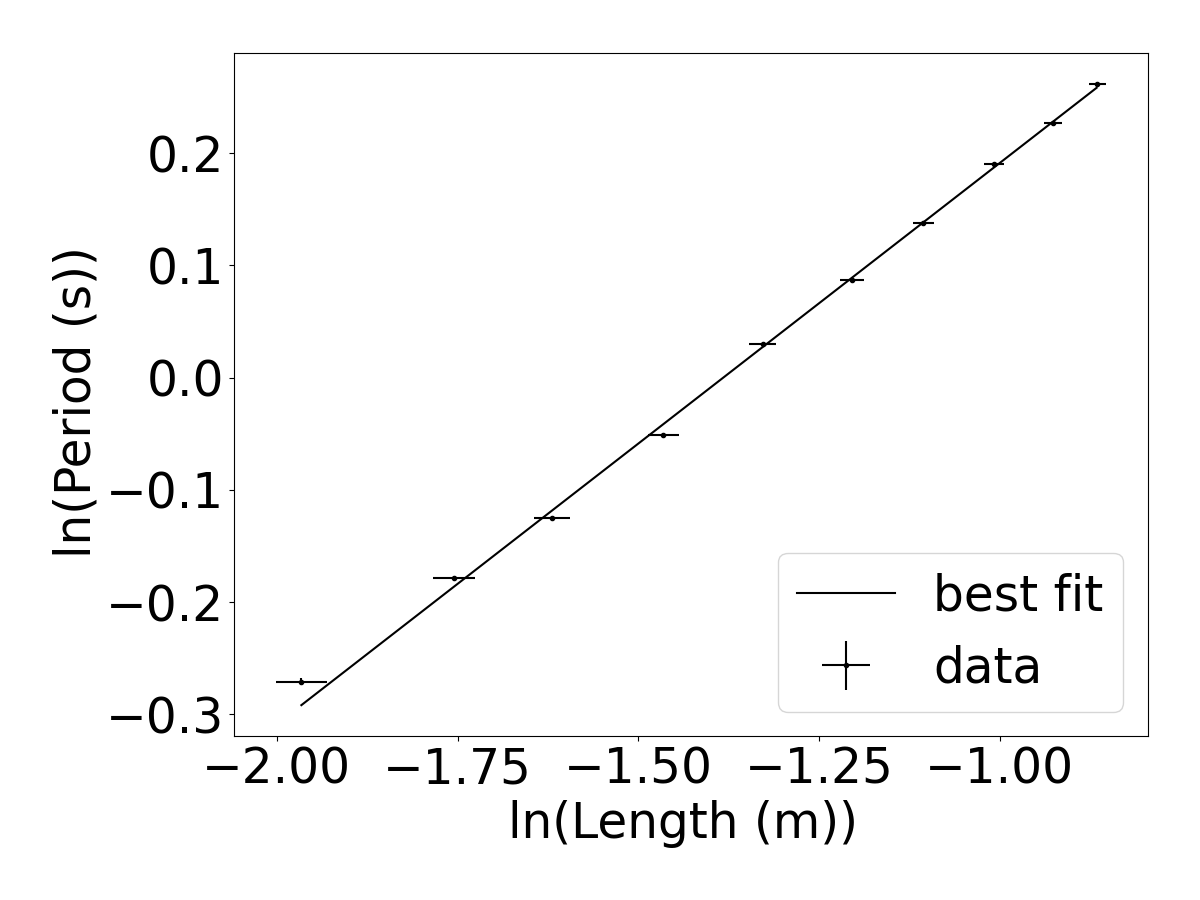
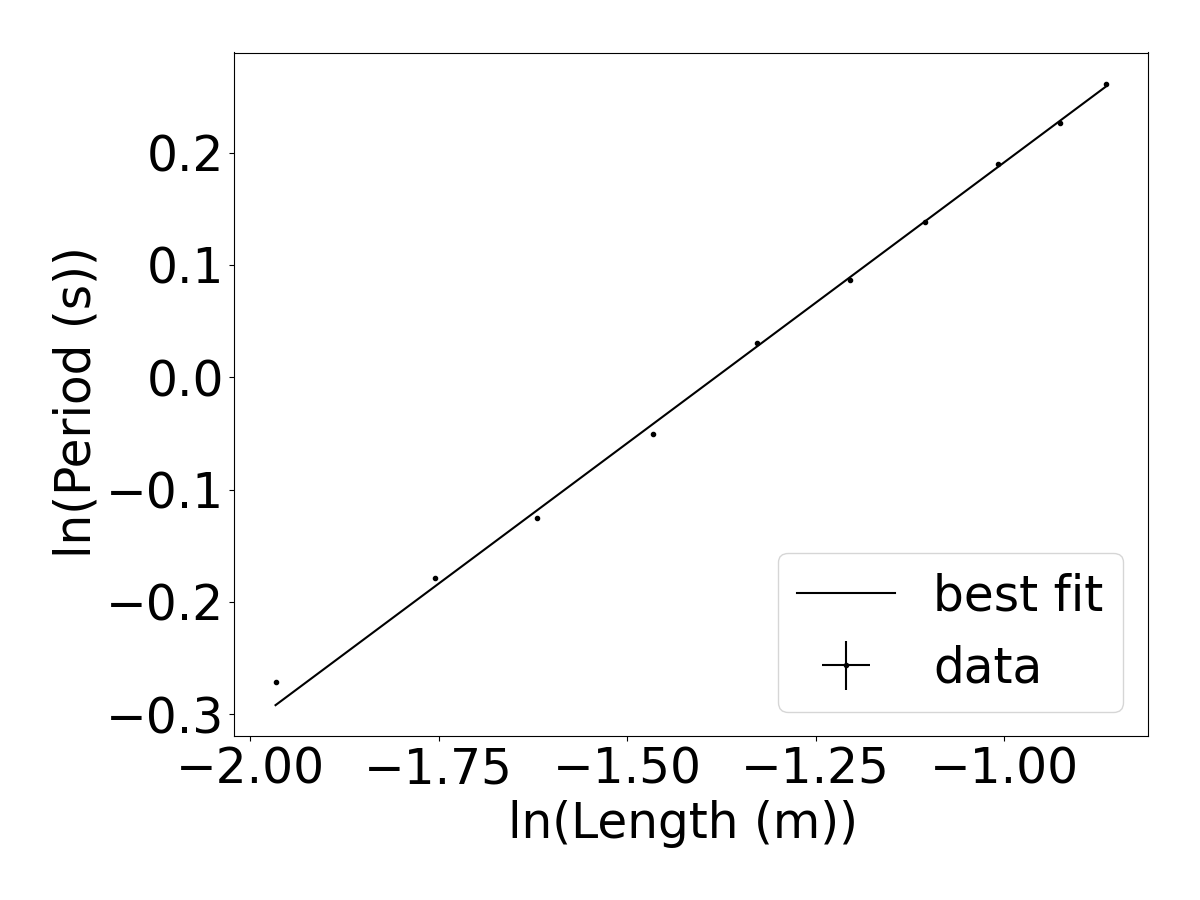
IT IS FINISHED

diff --git a/report.tex b/report.tex
@@ -46,26 +46,39 @@
 \vspace{-5ex}
 
 \section{Introduction}
-The objective of this project was to determine the acccuracy of predictions by the \textbf{damped harmonic oscillator} model of a pendulum (Wilson, 2025a). The experiments examined how a pendulum's initial amplitude $\theta_0$ affects its period $T$ and measured the $Q$ factor, which represents how slowly the amplitude $\theta$ decays per $T$. Analysis of the collected data and its uncertainties yielded several results. The pendulum was confirmed to be symmetric ($T$ for $\theta > 0$ and $\theta < 0$ are equal). $T$ increases quadratically with $\theta_0$, but after considering uncertainty, it is experimentally consistent with a constant small-angle period $T_0$ when $\abs{\theta_0}\leq0.25 \pm 3$. Using a starting amplitude within the small-angle range, $Q$ was calculated from the experimentally determined exponential decay constant $\tau$ and period $T$. The amplitude $\theta$ fits the decaying exponential closely. Considering error, the calculated $Q$ agreed with the $Q$ found by counting the number of $T$ for $\theta$ to decay by a carefully selected factor. 
+The objective of this project was to determine the accuracy of predictions by the \textbf{damped harmonic oscillator} model of a pendulum (Wilson, 2025a) and which variables depend on each other through various experiments.
 
-Once the pendulum was built, most data collection used the Open Source Physics (OSP) Tracker (Brown, 2025) to search the recorded footage. The data, reformatted through Google Sheets, was run through Python script customized from the one provided (Wilson, 2025b) to generate best fit data and graphs.
-
+\subsection{Background}
 The following equations may be referenced throughout the report:
 \begin{align}
     \theta(t)&=\theta_0 ~ \e^{-t/\tau} \cos{\left(\frac{2\pi}{T}t+\phi_0 \right)} 
         \label{amplitude vs. time}\\
-    \theta_{max}(t)&=\theta_0 ~ \e^{-t/\tau} \label{max amplitude vs. time}\\
+    \theta_{\text{max}}(t)&=\theta_0 ~ \e^{-t/\tau} \label{max amplitude vs. time}\\
     T(\theta_0) &= T_0(1 + B\theta_0 + C\theta_0^2) \label{power series}\\
     Q&=\pi\frac{\tau}{T} \label{q calculated}\\ 
-    Q&=nK \label{q counted}
+    Q&=nK \label{q counted}\\
+    T&=kL^n \label{period vs length power law}
 \end{align}
+The damped harmonic oscillator model suggests that Equation~\ref{amplitude vs. time} (Wilson, 2025a) can describe the position of an oscillating pendulum released at rest from an initial amplitude $\theta_0$ as a function of time, where Equation \ref{max amplitude vs. time} describes the maximum amplitude per oscillation. The model predicts that $T$ does not depend on $\theta_0$ at all, that the best fit 3-term power series Equation \ref{power series} (Wilson) would yield $B,~ C=0$ and $T=T_0$. 
+Equation \ref{q calculated} (Wilson) quantifies $Q$ in terms of the decay constant $\tau$ and $T$. By Equation~\ref{q counted}, $Q$ can also be found by counting $K$, the number of oscillations for $\theta$ to decay by a factor of $\e^{-\pi/n}$ for any $n$.
+The best-fit power law Equation \ref{period vs length power law} (Wilson) is predicted to yield $k=2$, $n=0.5$, i.e. $T=2\sqrt{L}$ (Wilson) with modified units.
 
-The damped harmonic oscillator model suggested that $\theta$ could be described by the function of time Equation~\ref{amplitude vs. time} (Wilson, 2025a) where Equation \ref{max amplitude vs. time} describes the maximum amplitude per oscillation. The model also predicted that $T$ did not depend on $\theta_0$ at all, that the best fit 3-term power series Equation \ref{power series} (Wilson, 2025a) would yield $B,~ C=0$ and $T=T_0$. 
-Equation \ref{q calculated} (Wilson, 2025a) quantifies $Q$ in terms of other obtainable variables. By Equation~\ref{q counted}, $Q$ can also be found by counting $K$, the number of oscillations for $\theta$ to decay by a factor of $\e^{-\pi/n}$ for any $n$.
+When analyzing uncertainties, two values $a \pm u(a),~b \pm u(b)$ (where $a<b$) are considered experimentally indistinguishable if their error bars overlap ($a + u(a) \geq b - u(b))$. In the special case where $u(a)=u(b)$, $a$ and $b$ agree within error if $\abs{b-a}\leq 2u(a).$
 
-When analyzing uncertainties, two values $a \pm u(a),~b \pm u(b)$ (where $a<b$) are in fact considered experimentally indistinguishable if their error bars overlap ($a + u(a) \geq b - u(b))$. In the special case where $u(a)=u(b)$, $a$ and $b$ agree within error if $\abs{b-a}\leq 2u(a).$
+\subsection{Experimental Objectives and Findings}
+The experiments in this report:
+\begin{itemize}
+    \item Examined how a pendulum's initial amplitude $\theta_0$ affects its period $T$,
+    \item Measured the $Q$ factor, which represents how slowly the amplitude $\theta$ decays per $T$,
+    \item Examined how a pendulum's length affects its period $T$, and
+    \item Examined how a pendulum's length affects its $Q$ factor.
+\end{itemize}
+Analysis of the collected data and its uncertainties yielded several results. The pendulum was confirmed to be symmetric ($T(\theta_0)=T(-\theta_0)$). $T$ increases quadratically with $\theta_0$, but after considering uncertainty, it is experimentally consistent with a constant small-angle period $T_0=1.528 \pm \SI{0.002}{s}$ when $\abs{\theta_0}\leq0.25 \pm 3$. Subsequent experiments used starting amplitudes within the small-angle range. $Q_{\text{fit}}$ was calculated from the experimentally determined exponential decay constant $\tau$ and period $T$. The decaying exponential fits $\theta_{\text{max}}$ well but initially underestimates, then overestimates its true value. Considering error, the calculated $Q_{\text{fit}}=149\pm 2$ agreed with the $Q_2=154 \pm 10$ and $Q_3=165 \pm 9$ found by counting the number of $T$ for $\theta$ to decay by a factors of $\e^{-\pi/2}$ and $\e^{-\pi/3}$ respectively. It was also determined that $T$ depends very strongly on $L$, that $T=2\sqrt{L}\cdot \si{s/m^{0.5}}$, agreeing with the predicted model with some modification to units. $Q$ was also determined to have a dependence on $L$, with $Q=kL^n$, $k=380\pm20$, $n=0.76 \pm 0.03$.
 
-\pagebreak
+\subsection{Overview of Software Use}
+Once the pendulum was built, most data collection used the Open Source Physics (OSP) Tracker (Brown, 2025) to search the recorded footage. The data, formatted as .csv files, was passed into Python scripts customized from the one provided (Wilson, 2025b) that parsed data, performed calculations, and generated best fit data and graphs. See \href{https://github.com/planT-444/phy180-pendulum}{GitHub repository}.
+
+
 \section{Methods and Procedures}
 {\color{darkGreen}
 The string was tied around a screw, which was inserted into the mass (a tennis ball). The polypropylene string had negligible strain caused by the weight of the mass. Two stacks of books stabilized two boards which jutted off the table and clamped the string, fixing the pivot. A tripod supported the camera (a phone) from a distance, capturing slow-motion footage.
@@ -106,20 +119,21 @@ The period was measured using frame-by-frame analysis of the footage in OSP Trac
 
 \subsection{Measuring Q Factor}
 {\color{darkGreen}
-Footage was collected starting at $\theta_{max} \approx 0.25$ (within the small-angle approximation). As the pendulum could drift off plane with many oscillations, the mass was now hung from two strings of equal length to prevent motion normal to the desired plane (see Figure~\ref{fig:setup2}). The lens of the phone camera was normal to said plane and level with the pivot to reduce parallax error, since max amplitude was now measured from the footage using OSP Tracker's built-in protractor (see Figure~\ref{fig:tracker}). Not every oscillation was manually tracked. It would be unnecessary, since $\theta_{max}$ does not change meaningfully after small amounts of oscillations (it was later discovered that decay constant $\tau \gg T$). $T_0$ and $T_{final}$ were also tracked for $Q$ calculations.} 
+Footage was collected starting at $\theta_{\text{max}} \approx 0.25$ (small angle). The mass was now hung from two strings of equal length to prevent drift normal to the desired plane of motion over many oscillations (see Figure~\ref{fig:setup2}). The lens of the phone camera was normal to said plane and level with the pivot to reduce parallax error, since max amplitude was now measured from the footage using OSP Tracker's built-in protractor (see Figure~\ref{fig:tracker}). $T_0$ and $T_{final}$ were also tracked for $Q$ calculations.} 
 {\color{darkPurple} The length $L=29.1 \pm 0.5\,\text{cm}$ was used.}
 
 % TODO: rewrite
 {\color{darkPurple}
-$Q=nK$ (Equation~\ref{q counted}), so $u(Q)=nu(K)$. Selecting $n$ can be difficult because smaller $n$ can decrease $u(Q)$ but also result in a wider range of acceptable $K$ values (oscillations for which $\theta_{max}$ and $\theta_{final}$ agree within error), increasing $u(K)$. Data from both $n=2$ and $n=3$ were collected.
+When counting the number of oscillations $K$ for $\theta_{\text{max}}$ to decay to $\theta_{\text{final}}=\e^{-\pi/n}$, $u(\theta)$ causes $\theta_{\text{max}}$ at multiple oscillations to agree with $\theta_{\text{final}}$ within error, causing $u(K)$. $Q=nK$ (Equation~\ref{q counted}), so $u(Q)=nu(K)$. 
+Selecting $n$ is a tradeoff because smaller $n$ can decrease $u(Q)$ but also decreases $\theta_{\text{final}}$, increasing $u(K)$. Data from both $n=2$ and $n=3$ were collected.
 }
 
 \subsection{Measuring Period vs. Pendulum Length}
 The camera setup was improved as described in Figure \ref{fig:white}. 
 $L_{\text{pendulum}} = y_{\text{pivot}} - y_{\text{ball centre}} 
 = y_{\text{pivot}} - y_{\text{ball bottom}}- r_{\text{ball}}$. 
-Measuring the length of the string would not be helpful as the two-string pendulum was still in use, so a metre stick (Figure \ref{fig:metre stick setup}) was used to measure $y_{\text{pivot}}$ and $y_{\text{ball bottom}}$ after changes of length. The tape was necessary, as changing viewing angle to confirm proper alignment while the stick often shifted its position. 
-$y_{\text{ball bottom}}$ was measured  with eye level held as closely to the metre stick and as horizontal as achievable to reduce parallex error as shown in Figure \ref{fig:ball bottom}.
+A metre stick (Figure \ref{fig:metre stick setup}) was used to measure $y_{\text{pivot}}$ and $y_{\text{ball bottom}}$ after changes of length. The tape was necessary, as changing viewing angle to confirm proper alignment while holding the stick often shifted its position. 
+$y_{\text{ball bottom}}$ was measured with eye level held as closely to the metre stick and as horizontal as achievable to reduce parallax error as shown in Figure \ref{fig:ball bottom}.
 
 The pendulum was dropped from slightly higher than the small angle $\theta_0<0.25$ so it would stabilize after any potential human error (e.g. non-zero force) by the time it reached $\theta_0$.
 $T$ was measured (in OSP Tracker) by dividing the time for 10 oscillations by 10. With the small angle approximation, the change in period is negligible, so averaging 10 oscillations reduces type B uncertainty per oscillation. 
@@ -150,10 +164,12 @@ $T$ was measured (in OSP Tracker) by dividing the time for 10 oscillations by 10
 \vspace{-0.5cm}
 
 \subsection{Measuring Q Factor vs. Length}
-The same footage (multiple minutes per video) for varying length was analyzed in OSP Tracker. Max amplitudes were manually tracked. To find the decay constants and their uncertainties $\tau,\,u(\tau)$, $\theta_{\text{max}}$ vs. $t$ data for each length was fitted to Equation \ref{max amplitude vs. time} with a \href{https://github.com/planT-444/phy180-pendulum/blob/master/yippee2.py}{Python script}, which also fitted the calculated $Q$ vs. $L$ data to various curves (see Appendix \ref{trying curves}).
+$Q$ was founding using both $\tau$ and counting, but counting yielded extremely uncertain fit values because of high $u(K)\propto u(Q)$.
+The same footage (multiple minutes per video) for varying lengths was analyzed in OSP Tracker. Max amplitudes were manually tracked. To find the $\tau$ and $u(\tau)$, $\theta_{\text{max}}$ vs. $t$ data for each length was fitted to Equation \ref{max amplitude vs. time} with a \href{https://github.com/planT-444/phy180-pendulum/blob/master/yippee2.py}{Python script}, which also fitted the calculated $Q$ vs. $L$ data to various curves (see Appendix \ref{trying curves}).
 
 
 \section{Results and Data Analysis}
+\vspace{-0.4cm}
 \begin{figure}[H]
     \centering
     \includegraphics[height=0.22\textheight]{output-files/period vs amplitude.png}
@@ -162,8 +178,8 @@ The same footage (multiple minutes per video) for varying length was analyzed in
         Graph of $T$ vs. $\theta_0$ at release fitted to Equation~\ref{power series}, the 3-term power series 
         \mbox{$T(\theta_0) = T_0(1 + B\theta_0 + C\theta_0^2)$} (Equation \ref{power series}), 
         yielding $T_0=1.528 \pm \SI{0.002}{s},\:B=-0.0006 \pm \SI{0.0005}{s},\:C=0.0563 \pm \SI{0.0006}{s}.$
-        $T(0)=T_0$, visually located at the vertex.
         $\theta_0$ error bars are too small to be visible.
+        $T(0)=T_0$, visually located at the vertex.
         The large outlier at $\theta_0=0.873$ was a result of a misdrop but was not artificially discluded.
         Not all $T$ error bars hit the best fit curve, which is expected.
         }
@@ -175,7 +191,7 @@ The same footage (multiple minutes per video) for varying length was analyzed in
 The type B uncertainty in initial amplitude $u(\theta_0)=\SI{0.5}{\degree}=\SI{0.009}{rad}$ comes from the precision of the protractor's markings and the thickness of the string (non-negligible for a small protractor). 
 }
 {\color{darkPurple}
-The error in period $u(T)=\max(u_A(T), u_B(T))$ considers both uncertainties, type A (standard error of the mean of at least 3 repeated trials $\frac{\sigma_T}{\sqrt{N}}$, ranged from 0.001 to 0.007 excluding the misdrop outlier)} 
+The error in period $u(T)=\max(u_A(T), u_B(T))$ considers both uncertainties, type A (standard error of the mean of at least 3 trials $\frac{\sigma_T}{\sqrt{N}}$, ranged from 0.001 to $\SI{0.007}{s}$ excluding the misdrop outlier)} 
 {\color{darkGreen}
 and type B (footage limitation $1/\SI{120}{FPS}/\SI{3}{oscillations}=\SI{0.003}{s}$).
 
@@ -203,11 +219,13 @@ Therefore, the small angle approximation is valid for $\abs{\theta_0}\leq 0.25 \
     \centering
     \includegraphics[height=0.22\textheight]{output-files/amplitude vs. time.png}
     \caption{
-        {\color{darkPurple}
+        {\color{darkGreen}
         Graph of the decaying $\theta_{\text{max}}$ vs. time fitted to the exponential
         $\theta_{\text{max}}(t) = \theta_0 \e ^ {t/\tau}$ (Equation \ref{max amplitude vs. time}), yielding $\theta_0= 0.271 \pm 0.002,\:\tau= 51.3 \pm \SI{0.5}{s}$. 
-        $\abs{\Delta\theta_{max}}$ per oscillation decreases, which complicates identifying $K$ when many $\theta_{\text{max}}$ agree with $\theta_{\text{final}}$ within error. 
         $t$ error bars are too small to be visible.
+        $\abs{\Delta\theta_{\text{max}}}$ per oscillation decreases, which complicates identifying $K$ when many $\theta_{\text{max}}$ agree with $\theta_{\text{final}}$ within error. 
+        }
+        {\color{darkPurple}
         Fitting with Equation \ref{max amplitude vs. time} results in residuals that mostly overlap the curve within error. The decay can reasonably be modelled with Equation \ref{max amplitude vs. time}, but it appears to initially underestimate and eventually overestimate the true $\theta_{\text{max}}$.
         }
     }
@@ -215,7 +233,7 @@ Therefore, the small angle approximation is valid for $\abs{\theta_0}\leq 0.25 \
 \end{figure}
 \vspace{-0.5cm}
 {\color{darkGreen}
-The type B uncertainties are $u(\theta_{max})= \SI{0.2}{\degree} = \SI{0.003}{\radian}$ (smaller than before, since OSP Tracker's protractor radius can be enlarged so that the string thickness spans less ticks) and $u(t)= \SI{0.008}{s}$ ($1/\SI{120}{FPS})$.
+The type B uncertainties are $u(\theta_{\text{max}})= \SI{0.2}{\degree} = \SI{0.003}{\radian}$ (smaller than before, since OSP Tracker's protractor radius can be enlarged so that the string thickness spans less ticks) and $u(t)= \SI{0.008}{s}$ ($1/\SI{120}{FPS})$.
 
 $T = 1.083 \pm \SI{0.008}{s}$. $T$ is considered the average of $T_0,~T_{final}$ with an 
 uncertainty half their distance. Using best fit values and also counting $K$, the 
@@ -236,7 +254,7 @@ $Q_2$ experimentally agrees fully with $Q_{fit}$ ($\,\abs{Q_{fit}-Q_2} \leq u(Q_
         \includegraphics[width=1\textwidth]{output-files/period vs length.png}
         \caption{
             Graph of $T$ vs. $L$ fitted to $T=kL^n$, yielding $k=1.997\pm \SI{0.003}{s/m^{0.5}}$, 
-            $n=0.500 \pm 0.001$. 
+            $n=0.500 \pm 0.001$. No error bars overlap the curve (more trials needed for precise $u_A(T)$).
         }
         \label{fig:period vs length}
     \end{minipage}
@@ -246,33 +264,96 @@ $Q_2$ experimentally agrees fully with $Q_{fit}$ ($\,\abs{Q_{fit}-Q_2} \leq u(Q_
         \includegraphics[width=1\textwidth]{output-files/period vs length logged.png}
         \caption{
             Graph of $\ln T$ vs. $\ln L$ fitted to the line $\ln T = \ln k + n\ln L$, 
-            yielding $k=1.997\pm \SI{0.003}{s/m^{0.5}}$, 
-            $n=0.500 \pm 0.001$. As expected, the fit values are the same. 
+            yielding the same fit values, as expected.
         }
         \label{fig:period vs length logged}
     \end{minipage}
+\end{figure}
+
+As in the $T$ vs. $\theta_0$ analysis, $u(T)=\max(u_A(T), u_B(T))$ where $u_A(T)=$ standard error of the mean of 3 trials, ranging from $0.0006$ to $0.002\,$s, and $u_B(T)=1/\SI{120}{FPS}/\SI{10}{oscillations}=\SI{0.0008}{s}$. A combination of the metre stick's slight curve, its slight misalignment from the vertical, and parallax error cause at best $u(L)=\SI{0.005}{m}$.
+
+As predicted, the exponent $n$ agrees with 0.5 within error. The coefficient $k$ agrees with the predicted 2.000 within error, but the units should be in $\si{s/m^{0.5}}$. Therefore, the data agrees with the model, but its units must be changed: $T=2\sqrt{L}\cdot\si{s/m^{0.5}}$ if $[T]=\si{s}$ and $[L]=\si{m}$.
+
+\begin{figure}[H]
+    \centering
+        \includegraphics[height=0.22\textheight]{output-files/Q vs. length power law.png}
+        \caption{
+            Graph of $Q$ vs. $L$ fitted to the equation $Q=kL^n$, yielding 
+            $k=380\pm\SI{20}{m^{-0.76}}$, $n=0.76 \pm 0.03$.
+            Most error bars overlap with the curve.
+        }
+        \label{fig:Q vs length}
+\end{figure}
+\vspace{-0.5cm}
+The fit values are both an order of magnitude greater than their uncertainties and do not agree with 0 within error. The residuals show that most error bars overlap the curve. Therefore, Q has a dependence on L that strongly resembles the power law function mentioned in Figure \ref{fig:Q vs length}.
+
+\section{Conclusion}
+{\color{darkGreen}
+By analyzing experimental uncertainty, it is concluded that the period $T$ can be approximated as the small-angle period $T_0=1.528 \pm \SI{0.002}{s}$ for $\abs{\theta_0}\leq 0.25\pm0.03$ but grows quadratically for $\abs{\theta_0} > 0.25 \pm 0.03$. Note that $\abs{\theta_0}$ is used as that the pendulum was confirmed to be symmetric ($B=0$). The pendulum's $\theta_{\text{max}}$ per oscillation can be modelled with exponential decay $\theta_{\text{max}}(t)=\theta_0\e ^ {\tau/t}$, }
+{\color{darkPurple}
+though the model initially underestimates, then overestimates the true $\theta_{\text{max}}$.}
+{\color{darkGreen}
+$Q_{fit}=149\pm2$ calculated from $\tau$ and $T$ agrees with the $Q_2=150\pm10$ and $Q_3=165\pm9$ obtained by counting $K$ for $n=2$, $n=3$. }
+The fitted $T$ vs. $L$ data agrees with the proposed $T=2\sqrt{L}$ model but needs to be multiplied by appropriate units $\si{m/s^{0.5}}$. After trying multiple curves, $Q$ was found to depend on $L$, with $Q=kL^n$ and $k=380\pm \SI{20}{m^{-0.76}}$, $n=0.76 \pm 0.03$.
+
+If the lab were to be redone, more data would be taken for the misdrop outlier datapoint in $T$ vs. $\theta_0$ and more trials would be taken for $T$ vs. $L$ as well (for more precise $u_A(T)$). 
+
+\pagebreak
+
+\appendix
+\section{Trying to fit various curves to the Q vs. L data} \label{trying curves}
+The data was fitted to all the following curves:
+\begin{itemize}
+    \item $Q=AL^2 + BL + C$
+    \item $Q=mL+b$
+    \item $Q=kL^n$
+    \item $Q=A\sqrt{L}+B$
+    \item $Q=A\ln{L} + B$ 
+\end{itemize}
+The last 3 curves had $R^2=$ 0.96 to 0.97 and low $S=\frac{u({\text{fit value}})}{\text{fit value}}$ ratios (relative uncertainty). Of the three, the power series makes the most sense, since it has a positive $Q$ range while the other two predict some negative $Q$ values at positive $L$, which is impossible. This is deemed more important than the logarithmic curve's slightly lower $S$.
+\begin{figure}[H]
+    \centering
+        \includegraphics[height=0.22\textheight]{output-files/Q vs. length quadratic.png}
+        \caption{
+            Data fitted to $Q=AL^2 + BL + C$. $A=-700 \pm 200$, $B=800 \pm 100$, 
+            $C=-10 \pm 10$. $R^2=0.98$.
+        }
+\end{figure}
+
+\begin{figure}[H]
+    \centering
+        \includegraphics[height=0.22\textheight]{output-files/Q vs. length linear.png}
+        \caption{
+            Data fitted to $Q=mL+b$. $m=400 \pm 20$, $b=30 \pm 4$. $R^2=0.94$.
+        }
+\end{figure}
+
+\begin{figure}[H]
+    \centering
+        \includegraphics[height=0.22\textheight]{output-files/Q vs. length power law.png}
+        \caption{
+            Data fitted to $Q=kL^n$. $k=380\pm20,~ n=0.76 \pm 0.03$. $R^2=0.96$
+            }
 \end{figure}
 
 \begin{figure}[H]
     \centering
         \includegraphics[height=0.22\textheight]{output-files/Q vs. length sqrt.png}
         \caption{
-            Graph of $Q$ vs. $L$ fitted to the equation $Q=A \sqrt{L} + B$, yielding $A=400 \pm \SI{20}{m^{-0.5}}$, $B=-67 \pm 7$. For $L< \SI{3}{cm},\:Q<0$, which is impossible. However, $r_{\text{ball}}\approx \SI{3}{cm}$, so $L<\SI{3}{cm}$ represents cases with no string, and thus, no pendulum.
+            Data fitted to $Q=A\sqrt{L}+B$. $A=400\pm 20$, $B=-67 \pm 7$. $R^2=0.97$.
         }
-        \label{fig:Q vs length}
 \end{figure}
-\vspace{-0.5cm}
 
-\section{Conclusion}
-By analyzing experimental uncertainty, it is concluded that the period $T$ can be approximated as the small-angle period $T_0=1.528 \pm \SI{0.002}{s}$ for $\abs{\theta_0}\leq 0.25\pm0.03$ but grows quadratically for $\abs{\theta_0} > 0.25 \pm 0.03$. Note that $\abs{\theta_0}$ is used as that the pendulum was confirmed to be symmetric ($B=0$). The pendulum's $\theta_{max}$ per oscillation can be accurately modelled with exponential decay $\theta_{max}(t)=\theta_0\e ^ {\tau/t}$. $Q_{fit}=149\pm2$ calculated from $\tau$ and $T$ agrees with the $Q_2=150\pm10$ and $Q_3=165\pm9$ obtained by counting $K$ for $n=2$, $n=3$. 
-
-For future experiments, the two-string setup which restricts non-planar motion should always be used. Measuring $T$ in other experiments will be quite error-tolerant since slight differences in $\theta_0$ negligibly change it and because $Q$ is sufficiently large for $T$ to change negligibly after a few oscillations.
-
-\appendix
-\section{Trying to fit various curves to $Q$ vs. $L$ data} \label{trying curves}
+\begin{figure}[H]
+    \centering
+        \includegraphics[height=0.22\textheight]{output-files/Q vs. length log.png}
+        \caption{
+            Data fitted to $Q=A\ln{L} + B$. $A=97 \pm 4$, $B=273 \pm 6$. $R^2=0.97$
+        }
+\end{figure}
 
 \section{Use of AI for this report}
-Generative AI (ChatGPT) was only queried for basic questions about matplotlib, for help fixing \LaTeX{} compilation errors, and for general conventions in lab report formatting. No content was conceived, formulated, articulated, or revised by ChatGPT.
+Generative AI (ChatGPT) queried for basic questions about matplotlib, for held debugging curve fitting errors, for help fixing \LaTeX{} compilation errors, and for general conventions in lab report formatting. No content was conceived, formulated, articulated, or revised by ChatGPT.
 
 \pagebreak
 \section{References}

diff --git a/yippee2.py b/yippee2.py
@@ -99,25 +99,34 @@ def sqrt(length, a, b):
 def logarithm(length, a, b):
     return a * np.log(length) + b
 
+def power_law(length, k, n):
+    return k * length ** n
+
 if __name__ == '__main__':
-    plot_fit(line, *load_data_calculate_Qs(),
+    data = load_data_calculate_Qs()
+    plot_fit(line, *data,
         xaxis="Length", xunits="m",
         yaxis="Q factor",
         output_filename = "Q vs. length linear")
     
-    plot_fit(quadratic, *load_data_calculate_Qs(),
+    plot_fit(quadratic, *data,
         xaxis="Length", xunits="m",
         yaxis="Q factor",
         output_filename = "Q vs. length quadratic")
     
-    plot_fit(logarithm, *load_data_calculate_Qs(),
+    plot_fit(logarithm, *data,
         xaxis="Length", xunits="m",
         yaxis="Q factor",
         output_filename = "Q vs. length log")
     
-    plot_fit(sqrt, *load_data_calculate_Qs(),
+    plot_fit(sqrt, *data,
         xaxis="Length", xunits="m",
         yaxis="Q factor",
         output_filename = "Q vs. length sqrt")
+    
+    plot_fit(power_law, *data,
+        xaxis="Length", xunits="m",
+        yaxis="Q factor",
+        output_filename = "Q vs. length power law")
 
     

diff --git a/yippee3.py b/yippee3.py
@@ -16,6 +16,7 @@ def load_period_vs_length(filename):
     length_error = []
     mean_periods = []
     period_error = []
+    period_a_uncertainty = []
     period_b_uncertainty = 0.0008 # 120 fps, 10 oscillations
     for length, periods in filtered_periods.items():
         lengths.append(length)
@@ -25,10 +26,9 @@ def load_period_vs_length(filename):
             period_b_uncertainty, 
             statistics.stdev(periods) / len(periods) ** 0.5
         ))
-        print(period_b_uncertainty, 
+        period_a_uncertainty.append( 
             statistics.stdev(periods) / len(periods) ** 0.5)
-    print(period_error)
-    print(mean_periods)
+    print(sorted(period_a_uncertainty))
     return (
         (
             np.array(lengths), 
@@ -61,7 +61,6 @@ if __name__ == '__main__':
         figsize = (12, 9),
         font_size=35
     )
-    print(tvsl_logged_data)
     plot_fit(line, 
         *tvsl_logged_data,
         xaxis="ln(Length (m))",

diff --git a/plot_fit.py b/plot_fit.py
@@ -37,6 +37,10 @@ def plot_fit(my_func, xdata, ydata, xerror=None, yerror=None, init_guess=None, f
     # The gridspec_kw argument makes the top plot 2 times taller than the bottom plot.
     # You can adjust the relative heights by, say, changing [2, 1] to [3, 1].
     
+    if logged:
+        yerror = 0 * yerror
+        xerror = 0 * xerror
+    
     ax1.errorbar(xdata, ydata, yerr=yerror, xerr=xerror, fmt=".", label="data", color="black")
     # Plot the data with error bars, fmt makes it data points not a line, label is
     # a string which will be printed in the legend, you should edit this string.
